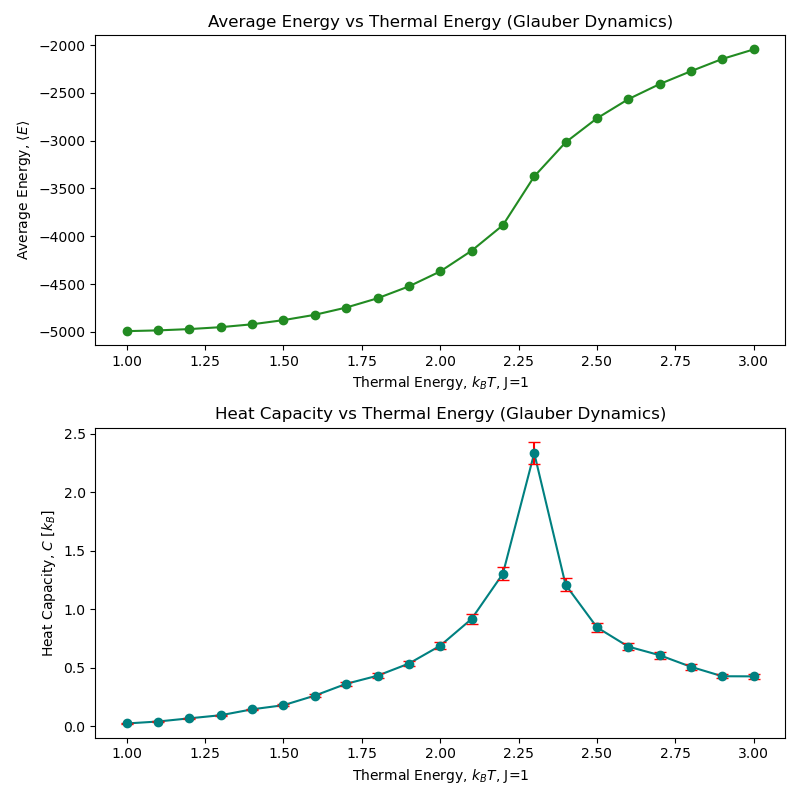
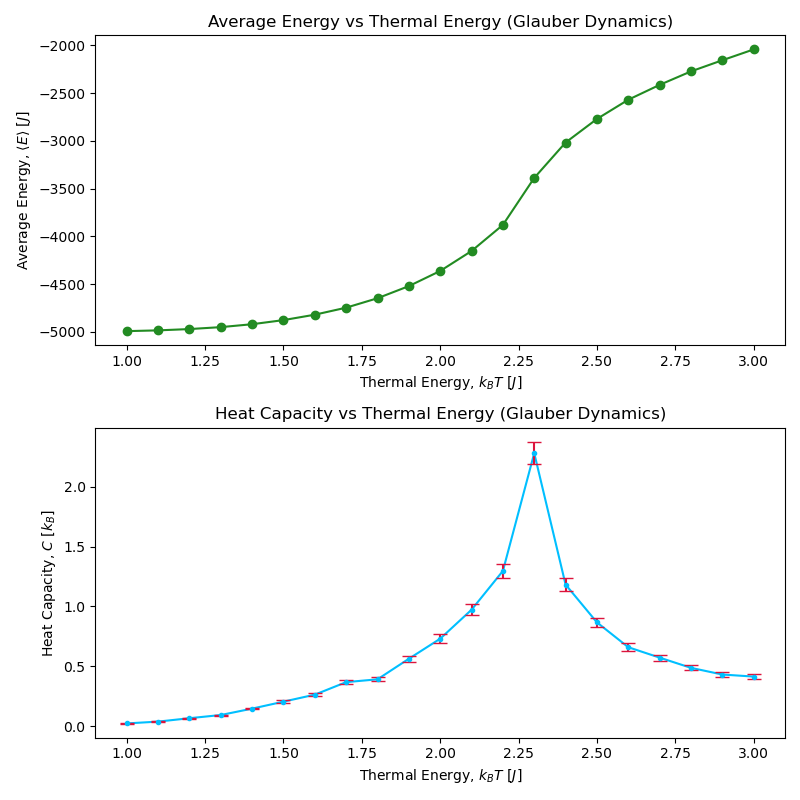
finished..?

diff --git a/checkpoint 1/task456_plot.py b/checkpoint 1/task456_plot.py
@@ -10,7 +10,7 @@ def plot_task4(filepath):
     
     plt.subplot(2, 1, 1)                                 # Plot average magnetisation
     plt.plot(df['kBT'], df['M'], 'o-', color='blueviolet')
-    plt.xlabel(r'Thermal Energy, $k_B T$, J=1')
+    plt.xlabel(r'Thermal Energy, $k_B T$ [$J$]')
     plt.ylabel(r'Average Magnetisation, $\langle |M| \rangle$')
     plt.title('Average Magnetisation vs Thermal Energy (Glauber Dynamics)')
 
@@ -42,8 +42,8 @@ def plot_task56(filepath, dynamics='Unknown'):
     plt.title(f'Average Energy vs Thermal Energy ({dynamics} Dynamics)')
 
     plt.subplot(2, 1, 2)                                 # Plot heat capacity
-    plt.plot(df['kBT'], df['C'], '-', color='teal')
-    plt.errorbar(df['kBT'], df['C'], yerr=df['sigma'], fmt='o', color='teal', capsize=4, ecolor='red')
+    plt.plot(df['kBT'], df['C'], '-', color='deepskyblue')
+    plt.errorbar(df['kBT'], df['C'], yerr=df['sigma'], fmt='.', color='deepskyblue', capsize=5, ecolor='crimson')
     plt.xlabel(r'Thermal Energy, $k_B T$ [$J$]')
     plt.ylabel(r'Heat Capacity, $C$ [$k_B$]')
     plt.title(f'Heat Capacity vs Thermal Energy ({dynamics} Dynamics)')
@@ -52,5 +52,5 @@ def plot_task56(filepath, dynamics='Unknown'):
     plt.show()
 
 if __name__ == "__main__":
-    filepath = "./task4.txt"
-    plot_task4(filepath)
+    filepath = "./task6.txt"
+    plot_task56(filepath)
